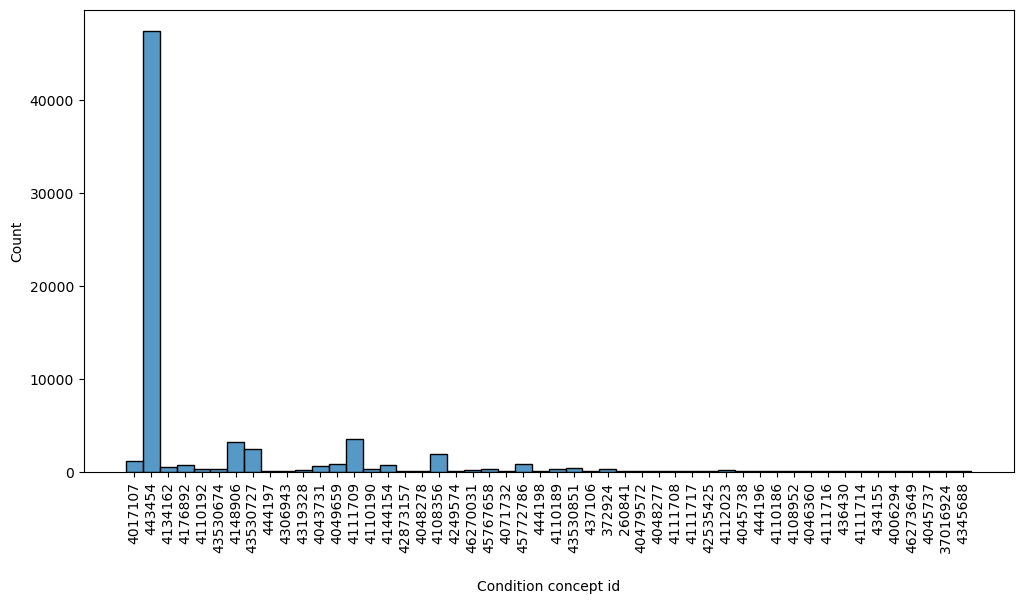
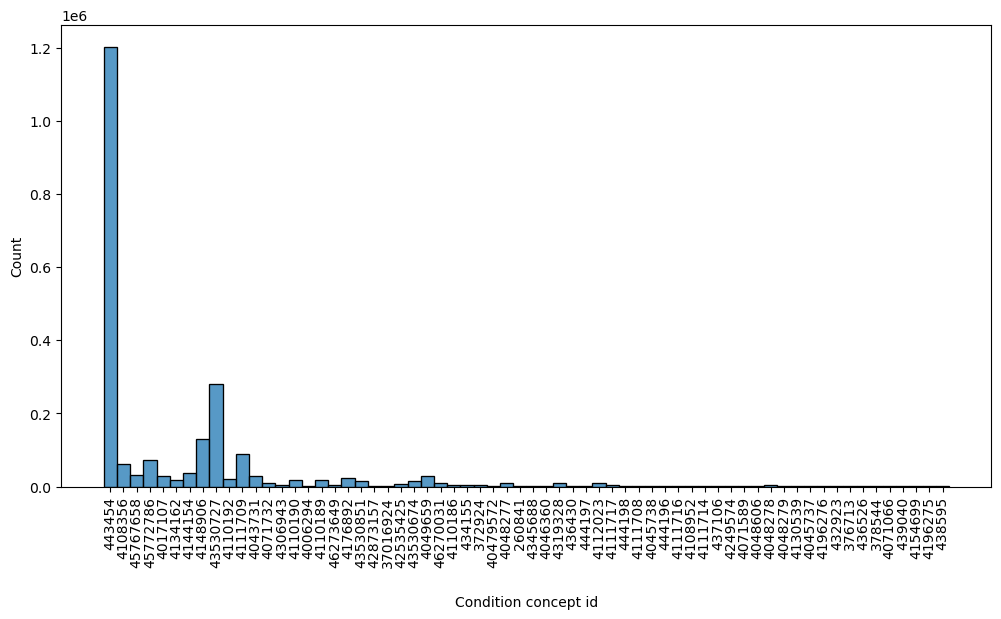
11/14/2024 2:11

diff --git a/src/test.py b/src/test.py
@@ -4,7 +4,7 @@ import seaborn as sns
 import matplotlib.pyplot as plt
 
 con, work_schema = config()
-table = "stroke_cohort_w_aphasia"
+table = "inpatient_stroke"  # "stroke_cohort_w_aphasia"
 
 query = f"""
 SELECT *
@@ -14,6 +14,19 @@ FROM {work_schema}.{table}
 df = read_df(con, query)
 
 print(df.info())
+condition_concept_id_instroke = df["condition_concept_id"].unique().apply(str)
+print(condition_concept_id_instroke)
+"""
+condition_concept_id of inpatient_stroke
+[  443454  4108356 45767658 45772786  4017107  4134162  4144154  4148906
+ 43530727  4110192  4111709  4043731  4071732  4306943  4110190  4006294
+  4110189 46273649  4176892 43530851 42873157 37016924 42535425 43530674
+  4049659 46270031  4110186   434155   372924 40479572  4048277   260841
+  4345688  4046360  4319328   436430   444197  4112023  4111717   444198
+  4111708  4045738   444196  4111716  4108952  4111714   437106  4249574
+  4071589  4048606  4048278  4048279  4130539  4045737  4196276   432923
+   376713   436526   378544  4071066   439040  4154699  4196275   438595]
+   """
 
 df["condition_concept_id"] = df["condition_concept_id"].apply(str)
 plt.figure(figsize=(12, 6))

diff --git a/src/test_caresite.py b/src/test_caresite.py
@@ -1,0 +1,54 @@
+from utils import config, read_df
+import pandas as pd
+import seaborn as sns
+import matplotlib.pyplot as plt
+
+con, work_schema = config()
+table = "stroke_cohort_w_aphasia"
+omop_schema = "omop_cdm_53_pmtx_202203"
+
+
+query = f"""
+SELECT *
+FROM {omop_schema}.visit_detail AS visit_detail
+INNER JOIN {work_schema}.{table} AS aphasia
+on visit_detail.person_id = aphasia.person_id
+;
+"""
+df = read_df(con, query)
+
+print(df.info())
+print(df["care_site_id"].unique())
+print(len(df["care_site_id"].unique()))
+
+
+
+query = f"""
+SELECT *
+FROM {omop_schema}.visit_occurrence AS visit_occurrence
+INNER JOIN {work_schema}.{table} AS aphasia
+on visit_occurrence.person_id = aphasia.person_id
+;
+"""
+
+con, work_schema = config()
+df = read_df(con, query)
+
+print(df.info())
+print(df["care_site_id"].unique())
+print(len(df["care_site_id"].unique()))
+
+
+
+# care-site non-null
+# provider: 0
+# visit_detail: 193/2000
+# visit_occurrence: 272/2000
+# person: 0
+# ------------------------
+# location non-null
+# care_site: 0
+# person: 1914/2000
+
+# 7584 care_site_id from visit detail.  2333343 entries total
+# 
